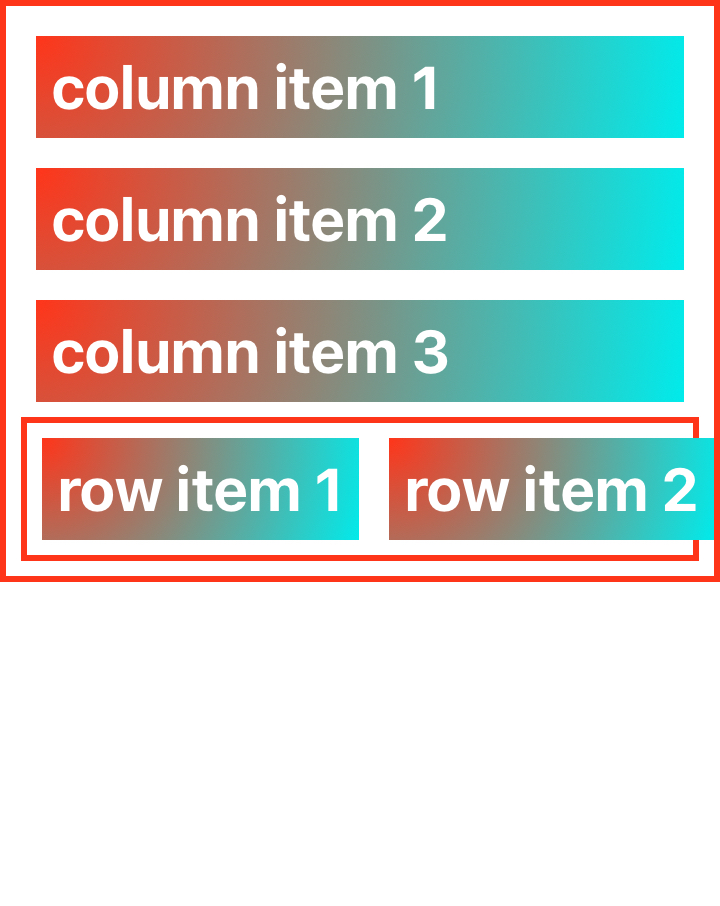
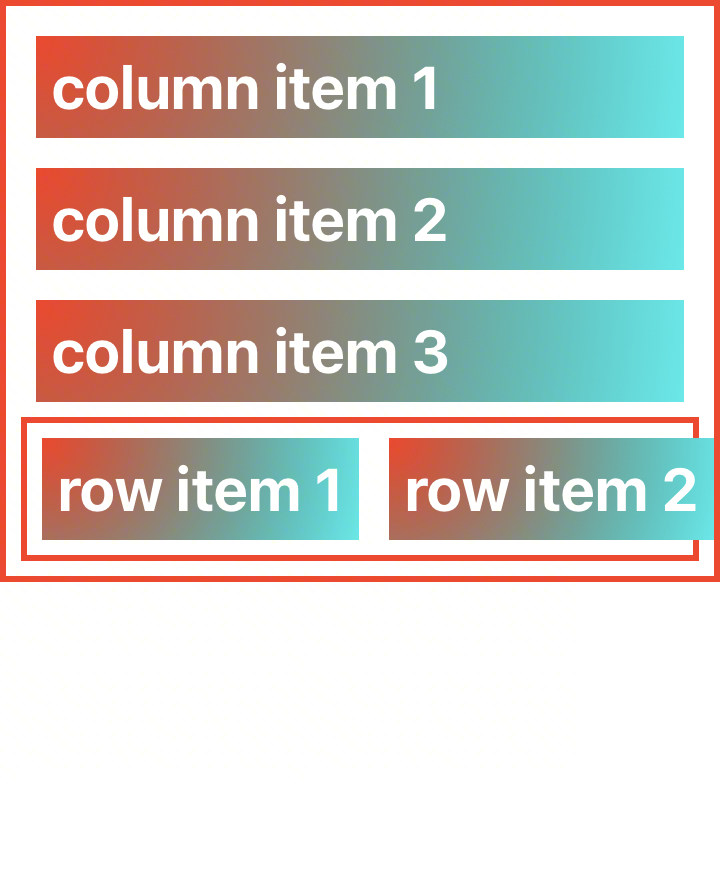
[Infra] use 15.6.1 macos runners and remove bundler
1. use the 15.6.1 macos with Xcode26.3
2. Since using CocoaPods via Bundler tends to cause inconsistent issues across different environments, we will no longer use Bundler and instead rely directly on the globally installed CocoaPods.

diff --git a/platform/darwin/ios/lynx/gesture/LynxCustomGestureRecognizerUnitTest.m b/platform/darwin/ios/lynx/gesture/LynxCustomGestureRecognizerUnitTest.m
@@ -2,11 +2,25 @@
 // Licensed under the Apache License Version 2.0 that can be found in the
 // LICENSE file in the root directory of this source tree.
 
+#import <UIKit/UIKit.h>
 #import <XCTest/XCTest.h>
 #import "LynxCustomGestureRecognizer.h"
 
 @interface LynxCustomGestureRecognizerUnitTest : XCTestCase
 
+@end
+
+@interface TestLynxCustomGestureRecognizer : LynxCustomGestureRecognizer
+@property(nonatomic, assign) UIGestureRecognizerState testState;
+@end
+
+@implementation TestLynxCustomGestureRecognizer
+- (UIGestureRecognizerState)state {
+  return self.testState;
+}
+- (void)setState:(UIGestureRecognizerState)state {
+  self.testState = state;
+}
 @end
 
 @implementation LynxCustomGestureRecognizerUnitTest
@@ -31,14 +45,16 @@
 }
 
 - (void)testBeginGesture {
-  LynxCustomGestureRecognizer *gestureRecognizer = [[LynxCustomGestureRecognizer alloc] init];
+  TestLynxCustomGestureRecognizer *gestureRecognizer =
+      [[TestLynxCustomGestureRecognizer alloc] init];
   [gestureRecognizer beginGesture];
   XCTAssertEqual(gestureRecognizer.state, UIGestureRecognizerStateBegan,
                  @"Gesture state should be Began");
 }
 
 - (void)testChangeGesture {
-  LynxCustomGestureRecognizer *gestureRecognizer = [[LynxCustomGestureRecognizer alloc] init];
+  TestLynxCustomGestureRecognizer *gestureRecognizer =
+      [[TestLynxCustomGestureRecognizer alloc] init];
   [gestureRecognizer beginGesture];
   [gestureRecognizer changeGesture];
   XCTAssertEqual(gestureRecognizer.state, UIGestureRecognizerStateChanged,
@@ -46,14 +62,18 @@
 }
 
 - (void)testEndGesture {
-  LynxCustomGestureRecognizer *gestureRecognizer = [[LynxCustomGestureRecognizer alloc] init];
+  TestLynxCustomGestureRecognizer *gestureRecognizer =
+      [[TestLynxCustomGestureRecognizer alloc] init];
+  [gestureRecognizer beginGesture];
   [gestureRecognizer endGesture];
   XCTAssertEqual(gestureRecognizer.state, UIGestureRecognizerStateEnded,
                  @"Gesture state should be Ended");
 }
 
 - (void)testFailGesture {
-  LynxCustomGestureRecognizer *gestureRecognizer = [[LynxCustomGestureRecognizer alloc] init];
+  TestLynxCustomGestureRecognizer *gestureRecognizer =
+      [[TestLynxCustomGestureRecognizer alloc] init];
+  [gestureRecognizer beginGesture];
   [gestureRecognizer failGesture];
   XCTAssertEqual(gestureRecognizer.state, UIGestureRecognizerStateFailed,
                  @"Gesture state should be Failed");

diff --git a/platform/darwin/ios/lynx/ui/scroll_view/LynxUIScrollerBasicUnitTest.m b/platform/darwin/ios/lynx/ui/scroll_view/LynxUIScrollerBasicUnitTest.m
@@ -204,12 +204,12 @@
   XCTAssert(scroller.view.contentOffset.x > 0);
 
   [LynxUIMethodProcessor invokeMethod:@"autoScroll"
-                           withParams:@{@"start" : @YES, @"rate" : @1000}
+                           withParams:@{@"start" : @YES, @"rate" : @2000}
                            withResult:callBack
                                 forUI:scroller];
   XCTestExpectation *expectationReachEnd =
       [self expectationWithDescription:@"Testing auto scroll hit the border and stop"];
-  dispatch_after(dispatch_time(DISPATCH_TIME_NOW, 1 * NSEC_PER_SEC), dispatch_get_main_queue(), ^{
+  dispatch_after(dispatch_time(DISPATCH_TIME_NOW, 2 * NSEC_PER_SEC), dispatch_get_main_queue(), ^{
     [expectationReachEnd fulfill];
   });
   [self waitForExpectations:@[ expectationReachEnd ] timeout:3];
@@ -255,12 +255,12 @@
   XCTAssert(scroller.view.contentOffset.y > 0);
 
   [LynxUIMethodProcessor invokeMethod:@"autoScroll"
-                           withParams:@{@"start" : @YES, @"rate" : @1000}
+                           withParams:@{@"start" : @YES, @"rate" : @2000}
                            withResult:callBack
                                 forUI:scroller];
   XCTestExpectation *expectationReachEnd =
       [self expectationWithDescription:@"Testing auto scroll hit the border and stop"];
-  dispatch_after(dispatch_time(DISPATCH_TIME_NOW, 1 * NSEC_PER_SEC), dispatch_get_main_queue(), ^{
+  dispatch_after(dispatch_time(DISPATCH_TIME_NOW, 2 * NSEC_PER_SEC), dispatch_get_main_queue(), ^{
     [expectationReachEnd fulfill];
   });
   [self waitForExpectations:@[ expectationReachEnd ] timeout:3];

diff --git a/explorer/darwin/ios/README.md b/explorer/darwin/ios/README.md
@@ -12,6 +12,7 @@ This document provides instructions for building the Lynx Explorer iOS app from 
 The following dependencies are needed:
 
 - Xcode(>=15.0)
+- Cocoapods(>=1.11.3)
 - Python library
 
 We recommend using [Homebrew](https://brew.sh/) to install the dependencies.
@@ -76,10 +77,3 @@ By default, the project doesn't configure the "Team" for signing. If you want to
 3. Update the "Bundle Identifier" from `com.lynx.LynxExplorer` to a unique identifier like `com.<your-name>.LynxExplorer`. This step ensures the identifier is unique and available for your use.
 4. Enable the "Automatically manage signing" option to allow Xcode to handle the app signing process automatically.
 
-### Handle Error when Installing Ruby Gems
-
-When running `./bundle_install.sh` command, if you encounter the following problems: *Bundler::GemNotFound: Your bundle is lock to xxx, but that version could not be found in any of the sources listed in Gemfile...* You can try running the following commands to fix the problem:
-```
-SDKROOT=/Library/Developer/CommandLineTools/SDKs/MacOSX.sdk bundle install
-./bundle_install.sh
-```
